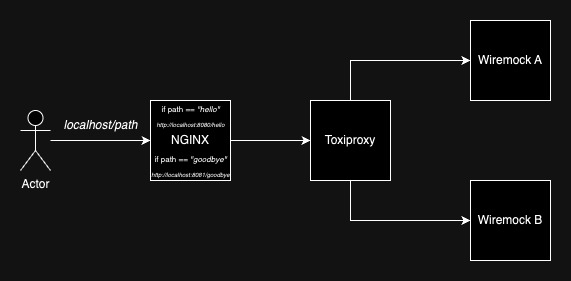
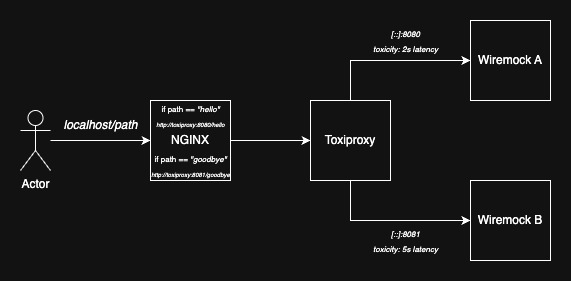
Updating README.md.

diff --git a/README.md b/README.md
@@ -4,7 +4,7 @@
 
 This example is an experiment in using NGINX as a reverse-proxy to route requests to different WireMock servers, via Toxiproxy, based on the path of the request. While also setting up Toxiproxy to apply toxicity to the wiremock servers separately, this will enable us to simulate per-endpoint latency or downtime, as we could deploy the same wiremock image and mocks as different services, each with their own toxicity, using NGINX to route traffic to each depending on the original request path.
 
-![nginx_wiremock_rev_proxy.jpg](images/nginx_wiremock_rev_proxy.jpg)
+<img src="images/nginx_wiremock_rev_proxy.jpg" alt="nginx_wiremock_rev_proxy.jpg" style="width:100%; height:auto;">
 
 In a very simple flow:
 
@@ -12,7 +12,7 @@ In a very simple flow:
 
 `localhost[:80]/goodbye` -> `toxiproxy:8081/goodbye` -> `wiremock_b:8081/goodbye`
 
-You'll notice that the response times are different, this is because the `goodbye` endpoint routes through to a wiremock host which has had a toxicity of 5 second latency applied to it via Toxiproxy.
+You'll notice that the response times are different, this is because the `goodbye` endpoint routes through to a wiremock host which has had a toxicity of 5 second latency applied to it via Toxiproxy, the `hello` endpoint routes through to the other wiremock host which has a toxicity of 2 seconds latency applied to it.
 
 ### To run this example locally
 
